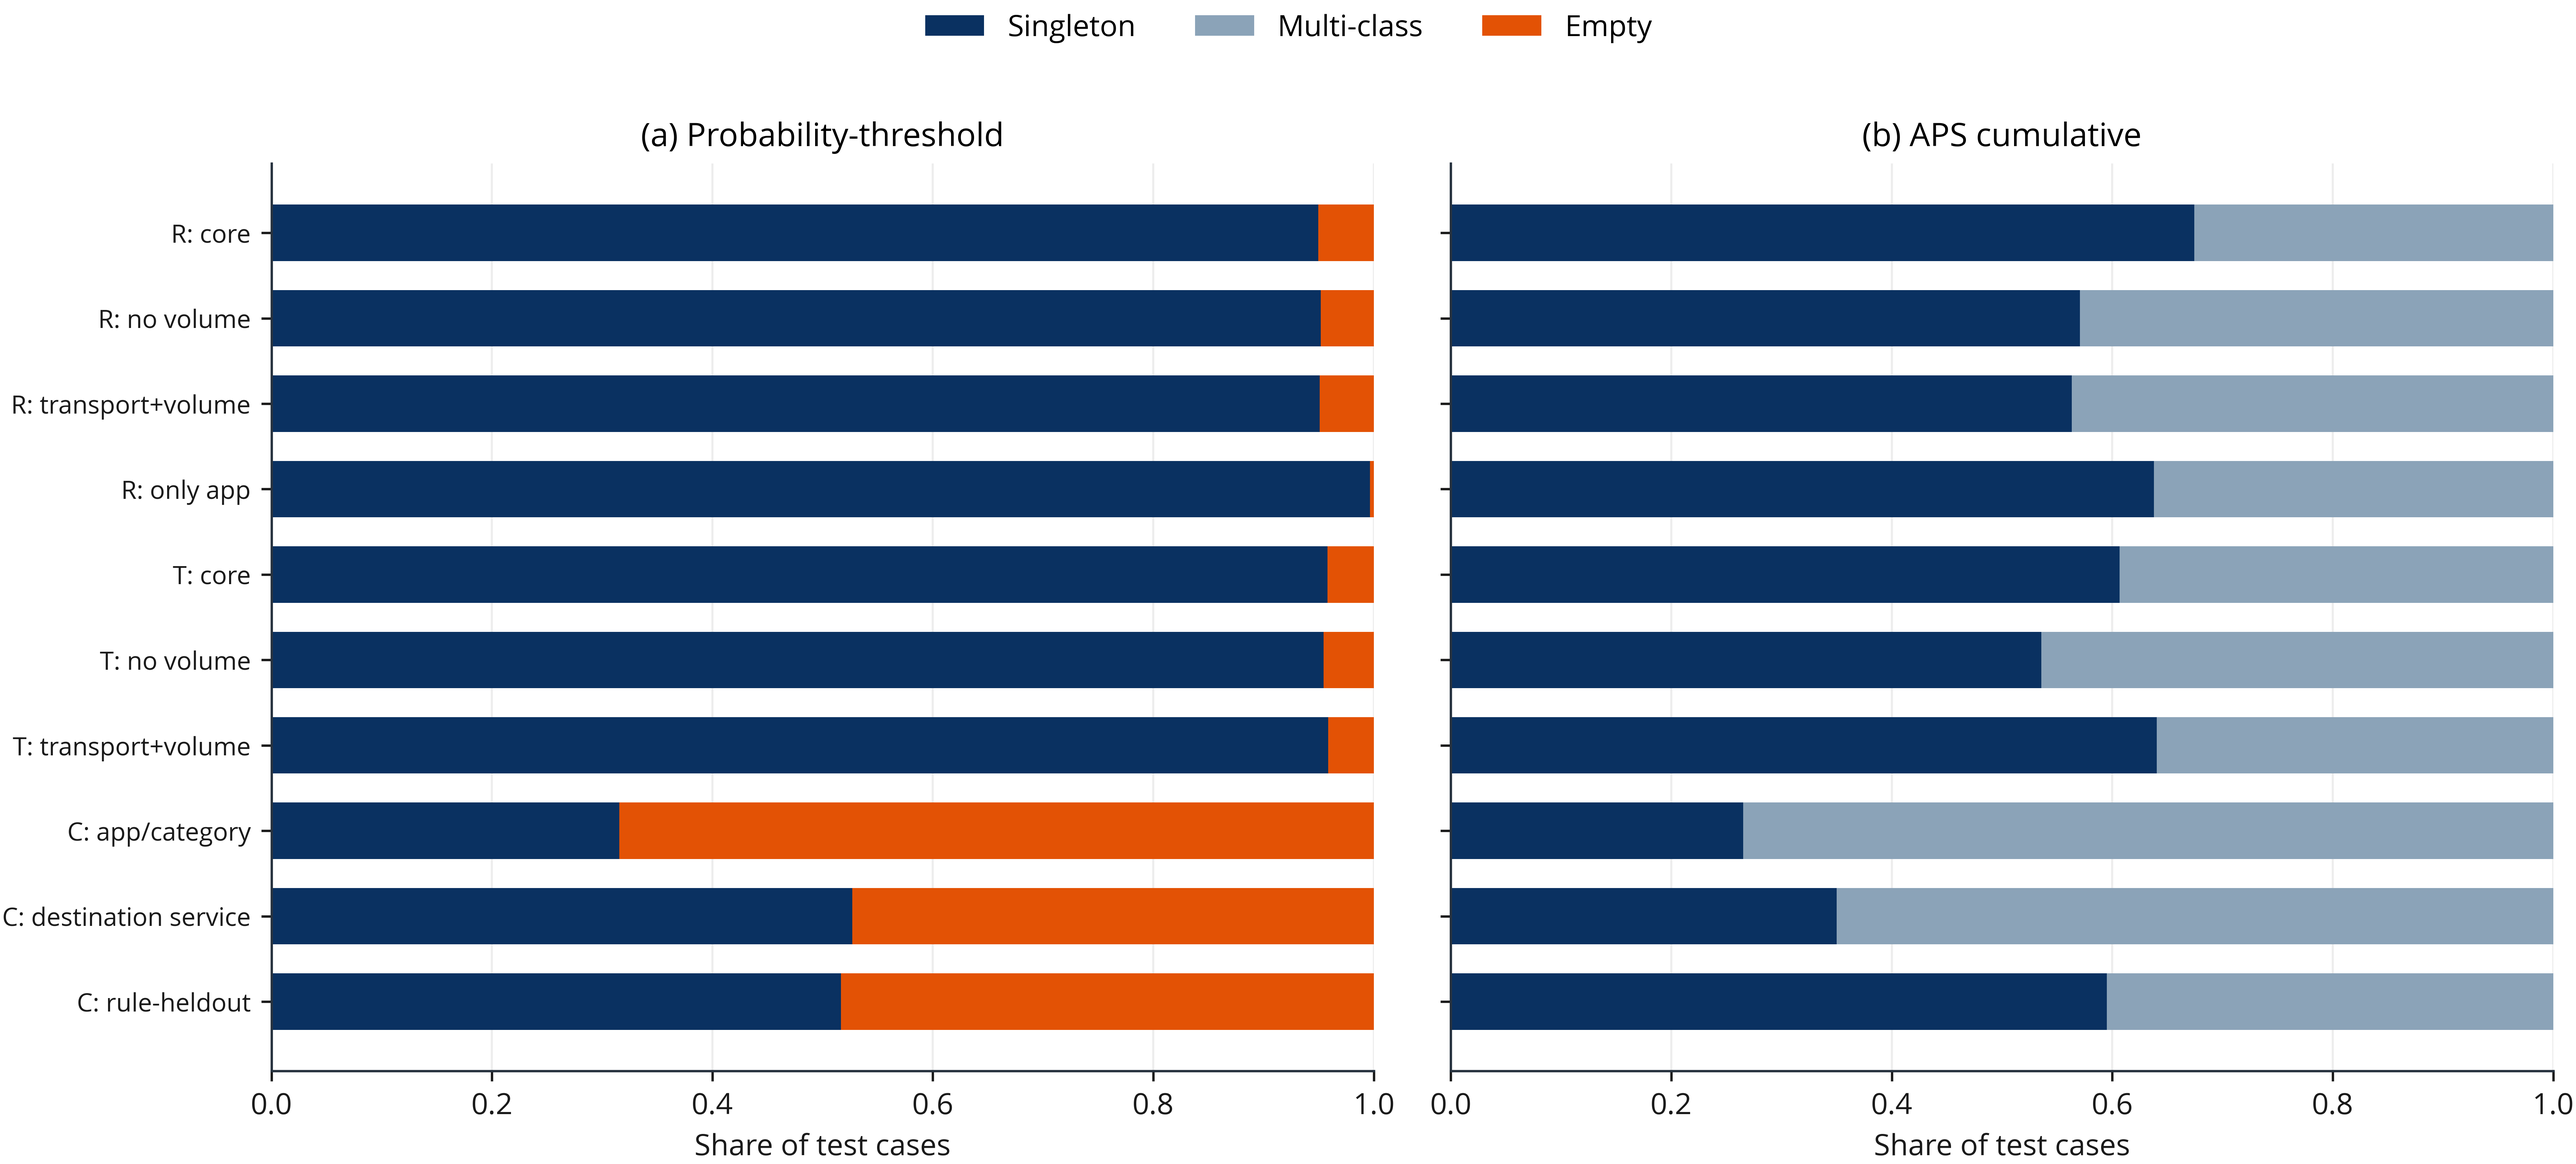
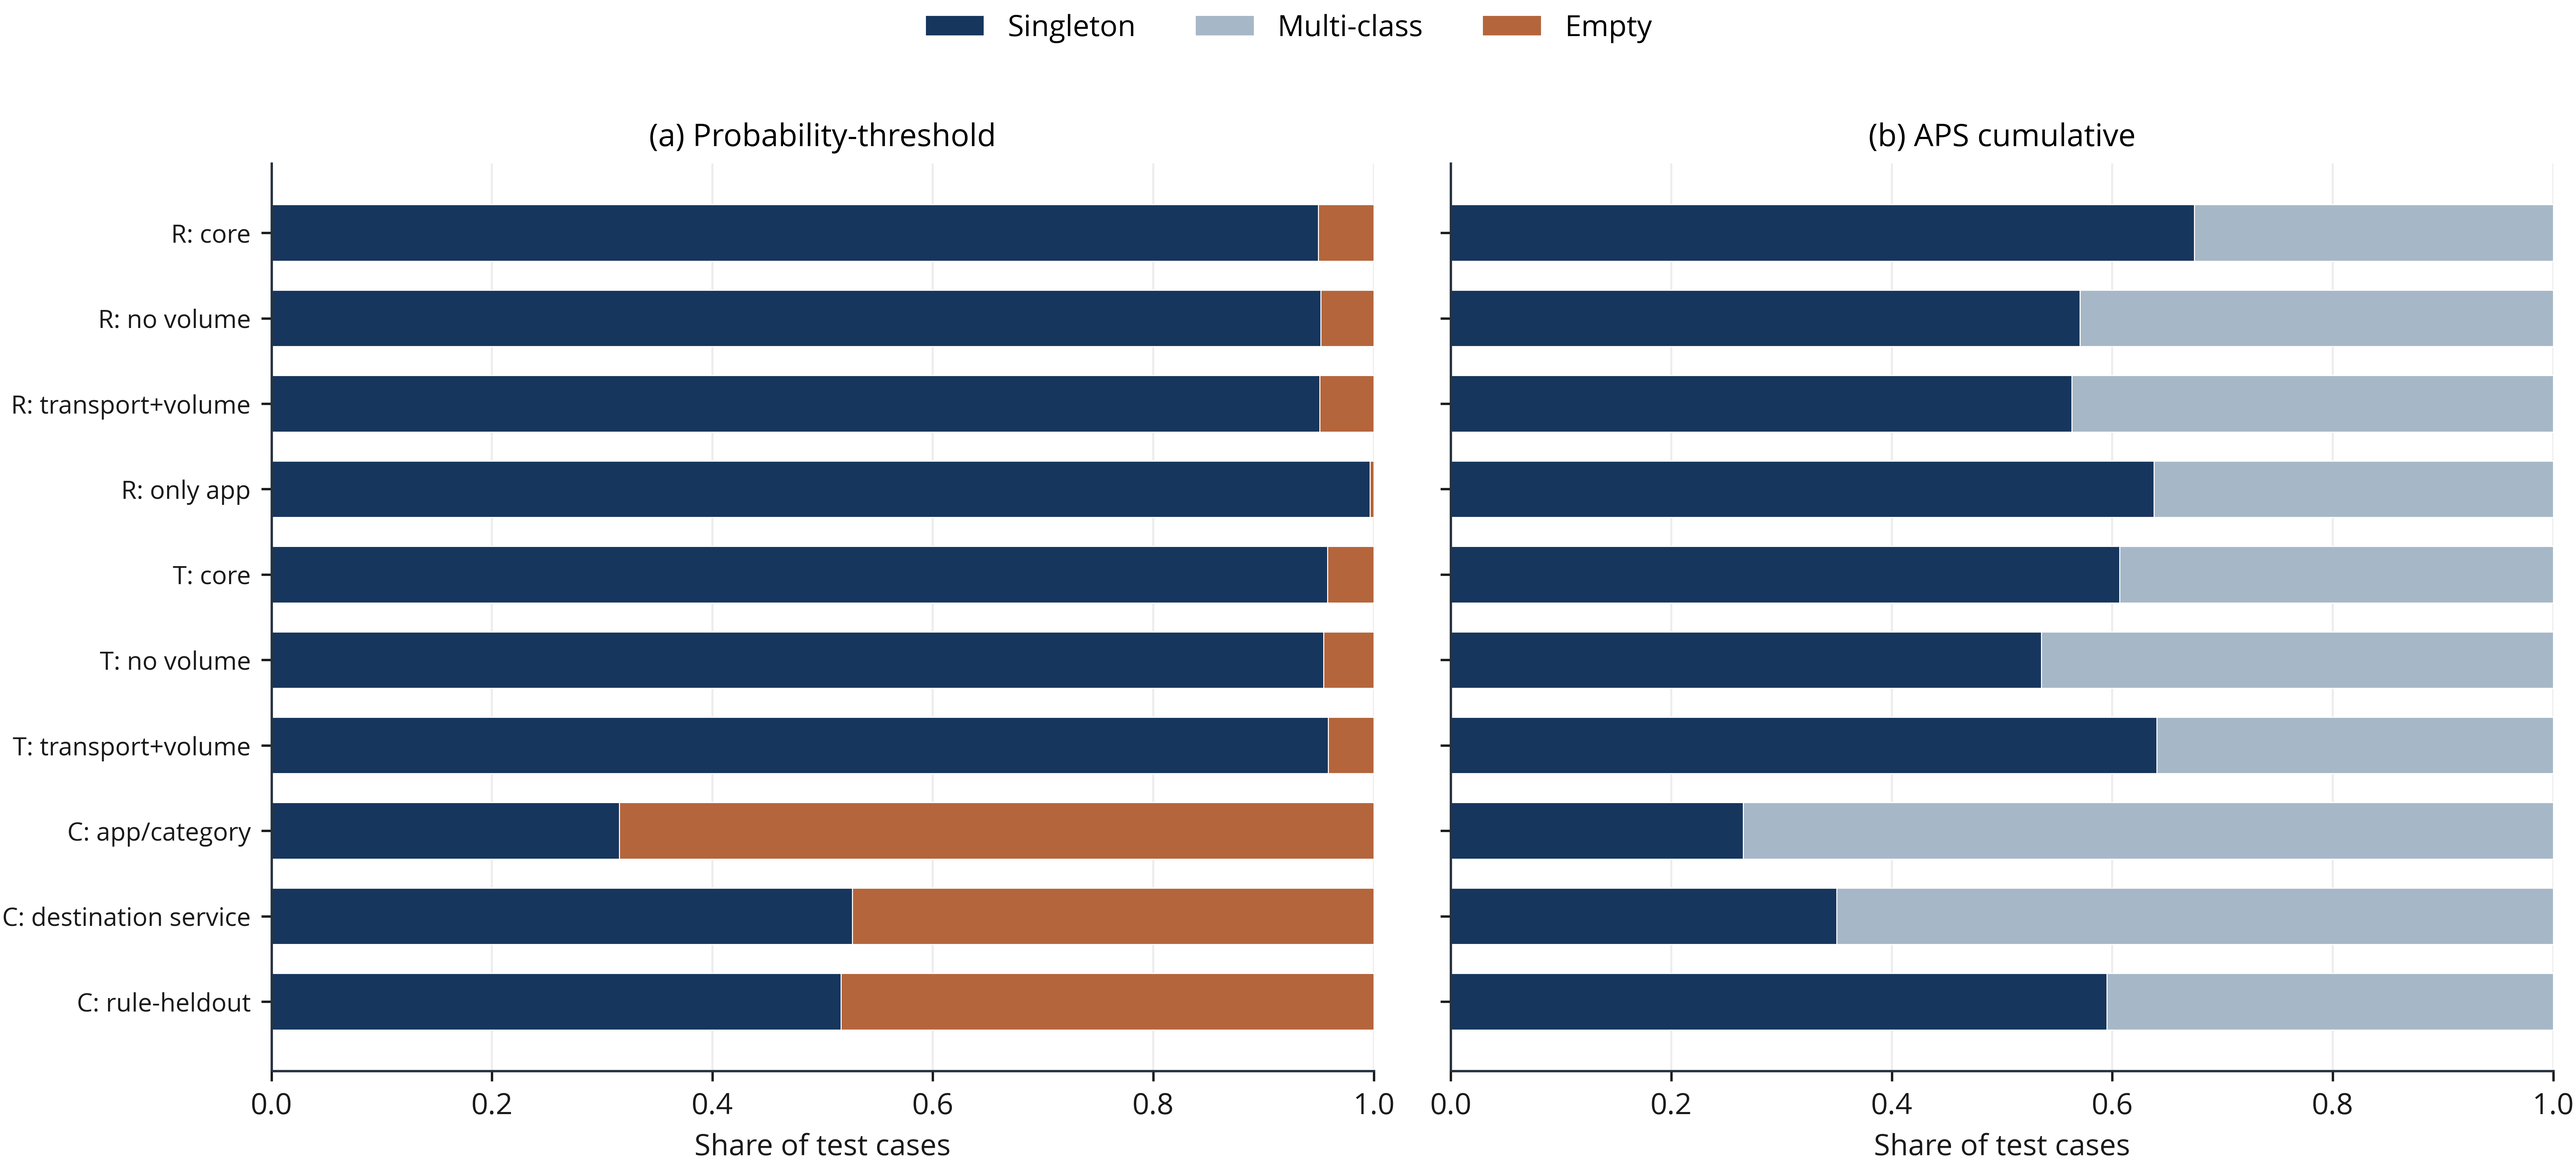
Refine conformal figure palette

diff --git a/scripts/build_uncertainty_figures.py b/scripts/build_uncertainty_figures.py
@@ -54,6 +54,11 @@ COLORS = {
     "light_gray": "#e2e2e2",
     "ink": "#1a1a1a",
 }
+CONFORMAL_COLORS = {
+    "singleton": "#17365D",   # Deep navy
+    "multi_class": "#A6B8C7", # Cool slate
+    "empty": "#B5653C",       # Muted copper
+}
 def read_csv(path: Path) -> pd.DataFrame:
     if not path.exists():
         raise SystemExit(f"Missing required input: {path}")
@@ -119,16 +124,16 @@ def plot_conformal_sets(
     # Modern Multi-Line Profile Plot with shaded areas
     x = np.arange(len(rows))
 
-    ax.plot(x, rows["singleton_rate"], "o-", color=COLORS["primary"], label="Singleton", linewidth=1.0, markersize=8, zorder=4)
-    ax.fill_between(x, rows["singleton_rate"], alpha=0.08, color=COLORS["primary"], zorder=3)
+    ax.plot(x, rows["singleton_rate"], "o-", color=CONFORMAL_COLORS["singleton"], label="Singleton", linewidth=1.0, markersize=8, zorder=4)
+    ax.fill_between(x, rows["singleton_rate"], alpha=0.08, color=CONFORMAL_COLORS["singleton"], zorder=3)
 
-    ax.plot(x, rows["ambiguous_set_rate"], "s-", color=COLORS["tertiary"], label="Ambiguous", linewidth=1.0, markersize=8, zorder=4)
-    ax.fill_between(x, rows["ambiguous_set_rate"], alpha=0.15, color=COLORS["tertiary"], zorder=3)
+    ax.plot(x, rows["ambiguous_set_rate"], "s-", color=CONFORMAL_COLORS["multi_class"], label="Ambiguous", linewidth=1.0, markersize=8, zorder=4)
+    ax.fill_between(x, rows["ambiguous_set_rate"], alpha=0.15, color=CONFORMAL_COLORS["multi_class"], zorder=3)
 
     has_empty = method != "aps_cumulative" and float(rows["empty_rate"].max()) > 0
     if has_empty:
-        ax.plot(x, rows["empty_rate"], "^-", color=COLORS["accent"], label="Empty", linewidth=1.0, markersize=8, zorder=4)
-        ax.fill_between(x, rows["empty_rate"], alpha=0.15, color=COLORS["accent"], zorder=3)
+        ax.plot(x, rows["empty_rate"], "^-", color=CONFORMAL_COLORS["empty"], label="Empty", linewidth=1.0, markersize=8, zorder=4)
+        ax.fill_between(x, rows["empty_rate"], alpha=0.15, color=CONFORMAL_COLORS["empty"], zorder=3)
 
     ax.set_ylim(-0.02, 1.05)
     ax.set_xticks(x)
@@ -163,28 +168,32 @@ def plot_conformal_composite(
         rows = selected_rows(rows)
         y = np.arange(len(rows))
         height = 0.66
-        ax.barh(y, rows["singleton_rate"], color=COLORS["primary"], label="Singleton", height=height)
+        ax.barh(y, rows["singleton_rate"], color=CONFORMAL_COLORS["singleton"], label="Singleton", height=height, edgecolor="white", linewidth=0.35)
         ax.barh(
             y,
             rows["ambiguous_set_rate"],
             left=rows["singleton_rate"],
-            color=COLORS["tertiary"],
+            color=CONFORMAL_COLORS["multi_class"],
             label="Multi-class",
             height=height,
+            edgecolor="white",
+            linewidth=0.35,
         )
         ax.barh(
             y,
             rows["empty_rate"],
             left=rows["singleton_rate"] + rows["ambiguous_set_rate"],
-            color=COLORS["accent"],
+            color=CONFORMAL_COLORS["empty"],
             label="Empty",
             height=height,
+            edgecolor="white",
+            linewidth=0.35,
         )
         ax.set_xlim(0, 1.0)
         ax.set_yticks(y)
         ax.set_yticklabels([short_label(v) for v in rows["experiment"]], fontsize=8.5)
         ax.set_xlabel("Share of test cases")
-        ax.set_title(title, fontweight="bold", fontsize=11)
+        ax.set_title(title, fontweight="normal", fontsize=10.5)
         ax.grid(axis="x", color=COLORS["light_gray"], alpha=0.6, linewidth=0.7)
         prepare_axis(ax)
     axes[0].invert_yaxis()
